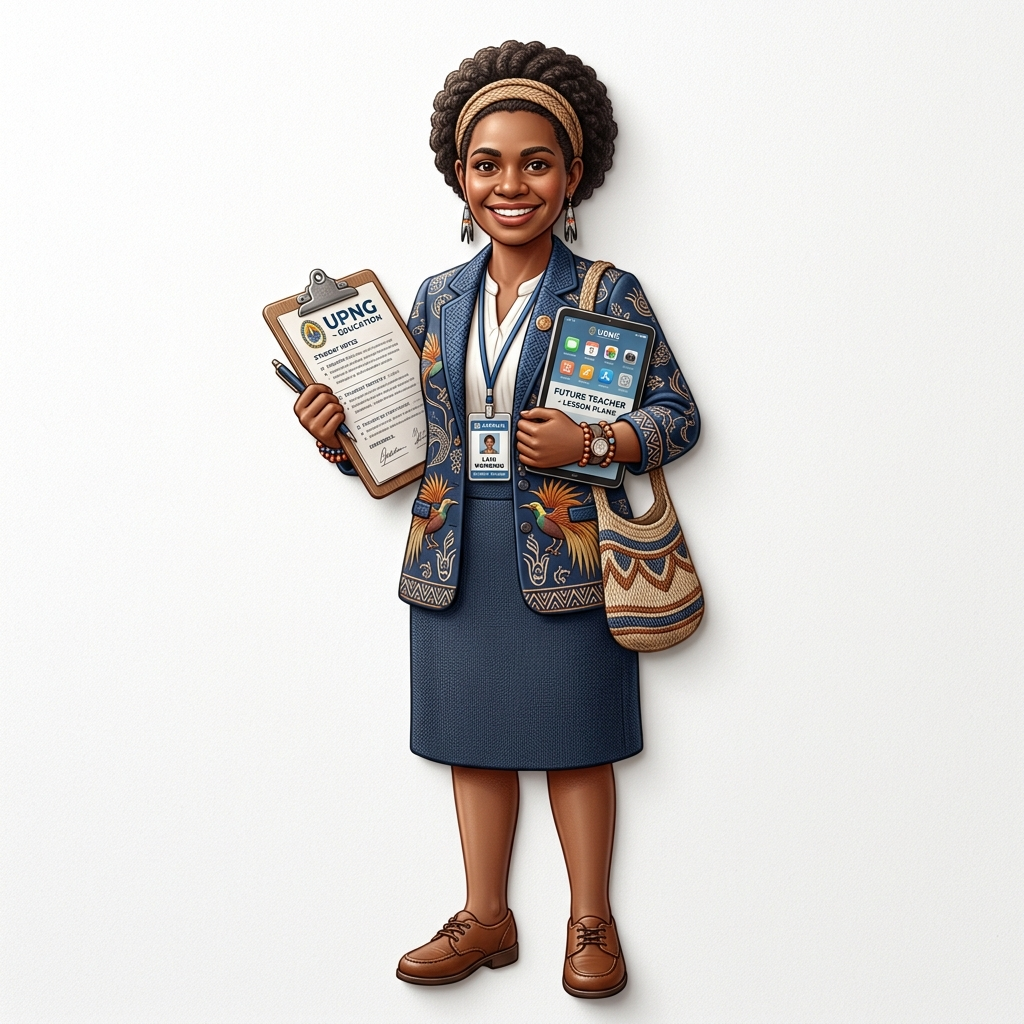
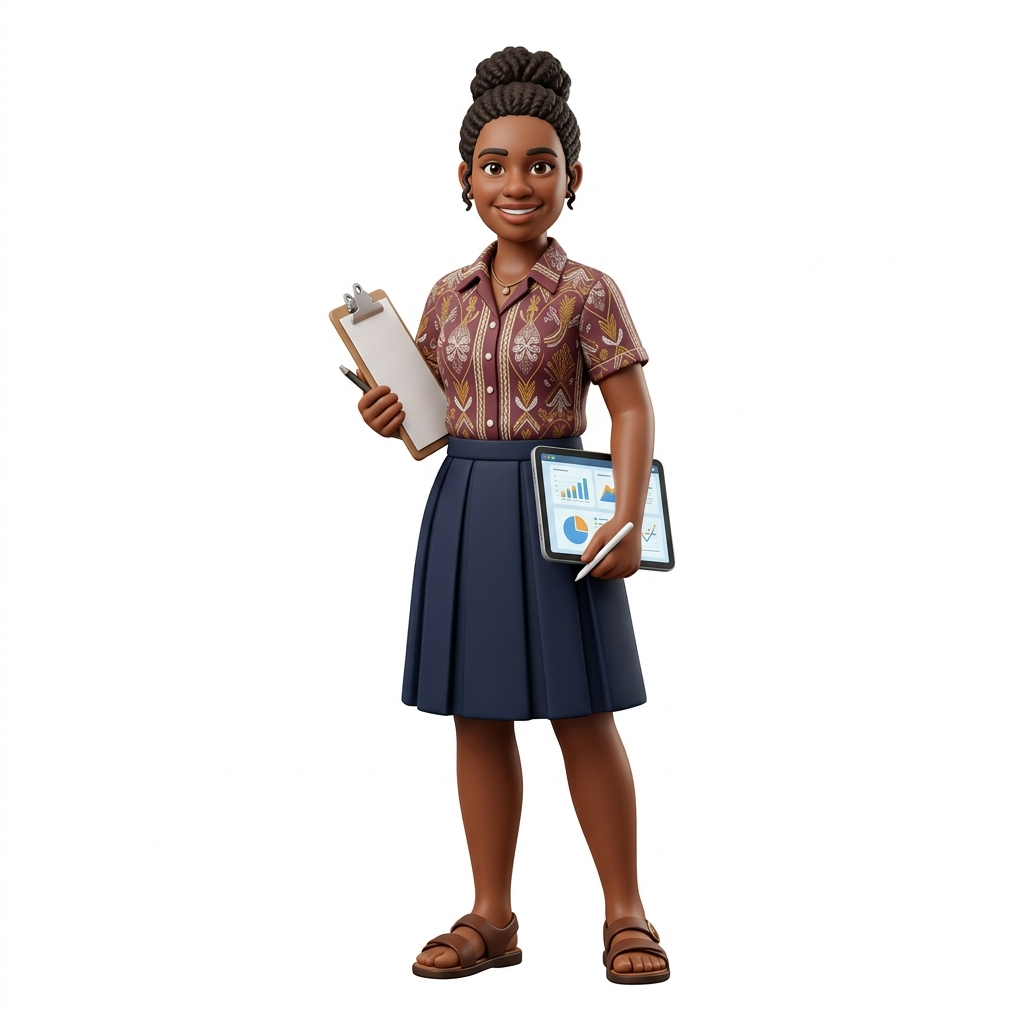
style(think-aloud): enlarge fullbody Papuan student illustrations, remove white container boxes and badges, and enhance typography to bold high-contrast text

Changed region(s): [[0.25, 0.0312, 0.7188, 1.0], [0.9062, 0.9375, 0.9688, 0.9688]]

diff --git a/src/app/assessment/think-aloud/page.tsx b/src/app/assessment/think-aloud/page.tsx
@@ -636,32 +636,22 @@ export default function ThinkAloudProtocolPage() {
         backgroundAttachment: "fixed",
       }}
     >
-      {/* ORNAMEN TIMBUL MAHASISWA PAPUA KIRI (OUTSIDE MAIN CARD, NOT OVERLAPPED) */}
-      <div className="hidden xl:flex flex-col items-center justify-center fixed left-4 top-1/2 -translate-y-1/2 z-20 pointer-events-none w-52 text-center">
-        <div className="relative">
-          <img
-            src="/papua_student_male.png"
-            alt="Mahasiswa Calon Guru Papua"
-            className="w-48 h-auto object-contain drop-shadow-[0_20px_30px_rgba(0,0,0,0.25)] rounded-2xl border-2 border-amber-400/40 bg-white/60 backdrop-blur-sm p-1.5"
-          />
-          <div className="mt-2 px-3 py-1.5 bg-slate-900/95 backdrop-blur-md text-amber-300 text-[10px] font-black uppercase tracking-wider rounded-xl border border-amber-500/50 shadow-2xl">
-            🎓 Mahasiswa Calon Guru Papua
-          </div>
-        </div>
+      {/* ORNAMEN TIMBUL MAHASISWA PAPUA KIRI (UTUH, TANPA BOX, MEMPERBESAR FOTO) */}
+      <div className="hidden xl:flex flex-col items-center justify-center fixed left-0 top-1/2 -translate-y-1/2 z-20 pointer-events-none w-72 text-center">
+        <img
+          src="/papua_student_male.png"
+          alt="Mahasiswa Calon Guru Papua"
+          className="w-64 md:w-72 lg:w-80 h-auto object-contain mix-blend-multiply drop-shadow-[0_25px_35px_rgba(0,0,0,0.25)] hover:scale-105 transition-transform duration-300"
+        />
       </div>
 
-      {/* ORNAMEN TIMBUL MAHASISWA PAPUA KANAN (OUTSIDE MAIN CARD, NOT OVERLAPPED) */}
-      <div className="hidden xl:flex flex-col items-center justify-center fixed right-4 top-1/2 -translate-y-1/2 z-20 pointer-events-none w-52 text-center">
-        <div className="relative">
-          <img
-            src="/papua_student_female.png"
-            alt="Pendidik Masa Depan Papua"
-            className="w-48 h-auto object-contain drop-shadow-[0_20px_30px_rgba(0,0,0,0.25)] rounded-2xl border-2 border-rose-400/40 bg-white/60 backdrop-blur-sm p-1.5"
-          />
-          <div className="mt-2 px-3 py-1.5 bg-slate-900/95 backdrop-blur-md text-rose-300 text-[10px] font-black uppercase tracking-wider rounded-xl border border-rose-500/50 shadow-2xl">
-            👩🏫 Pendidik Masa Depan Papua
-          </div>
-        </div>
+      {/* ORNAMEN TIMBUL MAHASISWA PAPUA KANAN (UTUH, TANPA BOX, MEMPERBESAR FOTO) */}
+      <div className="hidden xl:flex flex-col items-center justify-center fixed right-0 top-1/2 -translate-y-1/2 z-20 pointer-events-none w-72 text-center">
+        <img
+          src="/papua_student_female.png"
+          alt="Pendidik Masa Depan Papua"
+          className="w-64 md:w-72 lg:w-80 h-auto object-contain mix-blend-multiply drop-shadow-[0_25px_35px_rgba(0,0,0,0.25)] hover:scale-105 transition-transform duration-300"
+        />
       </div>
 
       <main className="relative z-10 w-full max-w-4xl mx-auto space-y-3">
@@ -960,26 +950,26 @@ export default function ThinkAloudProtocolPage() {
               <div className="flex flex-col sm:flex-row sm:items-center justify-between gap-2 border-b border-slate-700/80 pb-3">
                 <div>
                   <div className="flex items-center gap-2 mb-1">
-                    <span className="px-2.5 py-0.5 rounded-md text-[10px] font-black uppercase bg-rose-500/20 text-rose-300 border border-rose-500/40">
+                    <span className="px-2.5 py-0.5 rounded-md text-[10px] font-black uppercase bg-amber-400 text-slate-950 shadow-sm">
                       Sesi {activeSession} • Soal {sessionItemIdx + 1} dari 10
                     </span>
-                    <span className="px-2.5 py-0.5 rounded-md text-[10px] font-black uppercase bg-slate-800 text-slate-300 border border-slate-700">
+                    <span className="px-2.5 py-0.5 rounded-md text-[10px] font-black uppercase bg-slate-800 text-slate-200 border border-slate-700">
                       ID: SJT_{currentQ.id.toString().padStart(2, "0")}
                     </span>
                     {currentQ.dim && (
-                      <span className="px-2.5 py-0.5 rounded-md text-[10px] font-black uppercase bg-indigo-500/20 text-indigo-300 border border-indigo-500/40">
+                      <span className="px-2.5 py-0.5 rounded-md text-[10px] font-black uppercase bg-sky-500/30 text-sky-200 border border-sky-400/40">
                         {currentQ.dim}
                       </span>
                     )}
                   </div>
-                  <h3 className="text-sm md:text-base font-black text-white tracking-tight">
+                  <h3 className="text-base md:text-lg font-black text-amber-200 tracking-tight leading-snug">
                     {currentProbing?.title || `SJT Butir ${currentQ.id}`}
                   </h3>
                 </div>
               </div>
 
               {/* SKENARIO TEXT BOX WITH TEXT-TO-SPEECH (AUDIO READER) */}
-              <div className="p-3.5 md:p-4 bg-slate-950/90 rounded-xl border border-slate-800 shadow-inner space-y-2.5 text-xs md:text-sm leading-relaxed text-slate-200">
+              <div className="p-3.5 md:p-4 bg-slate-950/95 rounded-xl border border-slate-800 shadow-inner space-y-2.5 text-xs md:text-sm leading-relaxed text-slate-200">
                 <div className="flex flex-wrap items-center justify-between gap-2 border-b border-slate-800/80 pb-2">
                   <div className="flex items-center gap-2 font-black text-amber-300 text-[11px] uppercase tracking-wider">
                     <i className="fa-solid fa-book-open-reader"></i> Skenario Situasional:
@@ -1011,7 +1001,7 @@ export default function ThinkAloudProtocolPage() {
 
               {/* OPTIONS LIST (A, B, C, D, E) */}
               <div className="space-y-2">
-                <div className="text-[11px] font-black uppercase tracking-wider text-rose-300 flex items-center gap-1.5">
+                <div className="text-[11px] font-black uppercase tracking-wider text-amber-200 flex items-center gap-1.5">
                   <i className="fa-solid fa-list-check"></i> Pilihan Tindakan (Pilih Satu Pilihan Terlebih Dahulu):
                 </div>
                 <div className="grid grid-cols-1 gap-2">
@@ -1106,7 +1096,7 @@ export default function ThinkAloudProtocolPage() {
                             <span>{isSpeaking && speakingType === "probing" ? "Hentikan" : "🔊 Dengarkan"}</span>
                           </button>
                         </div>
-                        <p className="font-semibold text-slate-200">
+                        <p className="font-extrabold text-white text-sm leading-relaxed">
                           "Dengan kata-kata Anda sendiri, situasi ini menceritakan tentang apa, dan seberapa yakin Anda dengan pilihan jawaban Anda (dari 1=Sangat Ragu sampai 5=Sangat Yakin)?"
                         </p>
                       </div>
@@ -1114,8 +1104,8 @@ export default function ThinkAloudProtocolPage() {
 
                     {probingStep === 2 && (
                       <div className="space-y-1.5">
-                        <div className="flex flex-wrap items-center justify-between gap-2 text-rose-300 font-black text-xs uppercase">
-                          <span><i className="fa-solid fa-circle-question mr-1"></i> Pertanyaan Probing 2: Probing Khusus Skenario</span>
+                        <div className="flex flex-wrap items-center justify-between gap-2 text-amber-200 font-black text-xs uppercase">
+                          <span><i className="fa-solid fa-circle-question mr-1 text-amber-400"></i> Pertanyaan Probing 2: Probing Khusus Skenario</span>
                           <button
                             onClick={() =>
                               speakText(
@@ -1125,15 +1115,15 @@ export default function ThinkAloudProtocolPage() {
                             }
                             className={`px-2.5 py-0.5 rounded-md text-[10px] font-black uppercase transition border ${
                               isSpeaking && speakingType === "probing"
-                                ? "bg-rose-500 text-white border-rose-300 animate-pulse"
-                                : "bg-slate-900 text-rose-300 border-slate-700 hover:bg-slate-800"
+                                ? "bg-amber-400 text-slate-950 border-amber-300 animate-pulse"
+                                : "bg-slate-900 text-amber-300 border-slate-700 hover:bg-slate-800"
                             }`}
                           >
                             <i className={`fa-solid ${isSpeaking && speakingType === "probing" ? "fa-volume-xmark" : "fa-volume-high"} mr-1`}></i>
                             <span>{isSpeaking && speakingType === "probing" ? "Hentikan" : "🔊 Dengarkan"}</span>
                           </button>
                         </div>
-                        <p className="font-semibold text-slate-200">
+                        <p className="font-extrabold text-amber-100 text-sm leading-relaxed">
                           "{currentProbing?.question || 'Mengapa Anda memilih tindakan itu daripada pilihan yang lain?'}"
                         </p>
                       </div>
